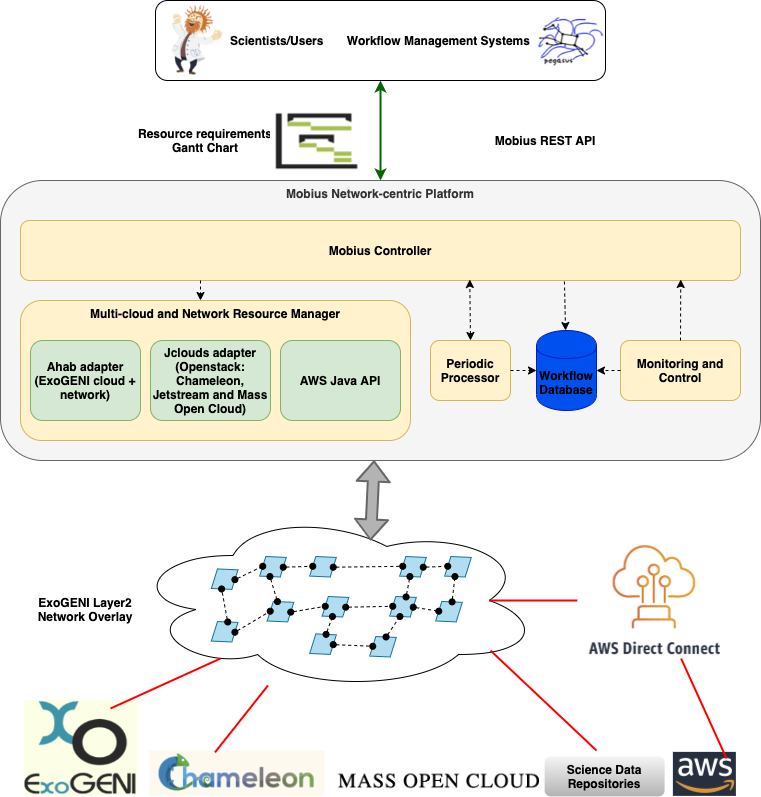
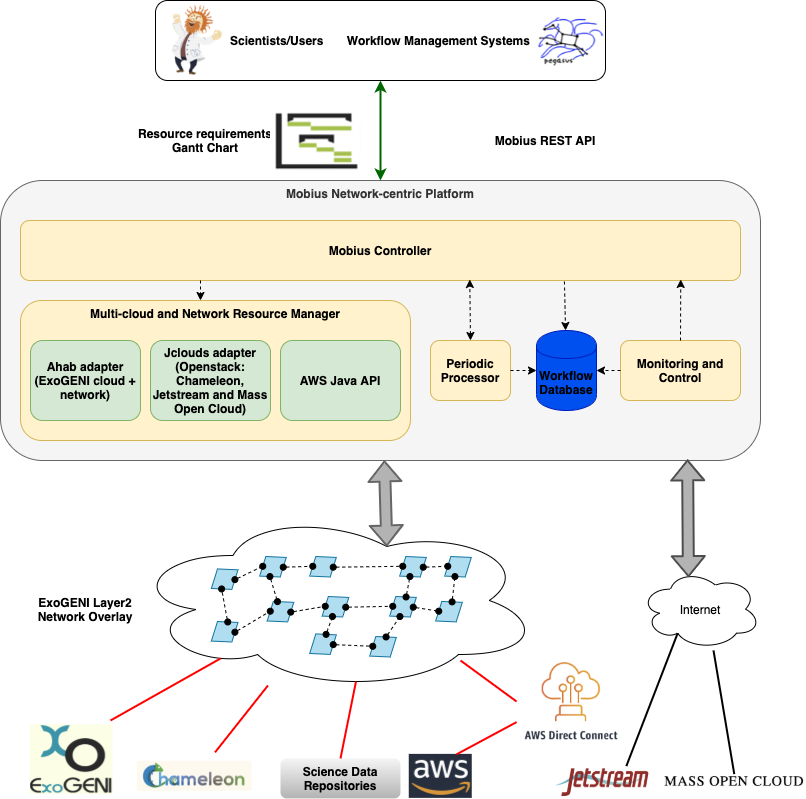
changes for network monitoring

diff --git a/python/condor_client.py b/python/condor_client.py
@@ -20,7 +20,7 @@ import json
 import argparse
 import subprocess
 import socket
-
+from ssl import create_default_context, Purpose
 
 from mobius import *
 from comet_common_iface import *
@@ -272,7 +272,7 @@ def main():
         dest='kafkahost',
         type = str,
         help='Kafka Host - monitoring server; must be specified for delete operation',
-        default='18.223.195.153:9092',
+        default='dynamo-broker1.exogeni.net:9093',
         required=False
     )
 
@@ -746,17 +746,85 @@ def cleanup_monitoring(mb, mobiushost, workflowId, kafkahost, response):
                         hostname=n["name"]
                     if n["name"] == "cmnw" :
                         continue
-                    topics.append(workflowId + hostname)
+                    topics.append("mobius-" + workflowId + "-" + hostname)
     delete_kafka_topic(topics, kafkahost)
 
 def delete_kafka_topic(topics, kafkahost):
     try:
         print ("List of topics to be deleted " + str(topics))
-        a = KafkaAdminClient(bootstrap_servers=[kafkahost])
+        context = _create_ssl_context(cafile="certs/DigiCertCA.crt", certfile="certs/inno-hn_exogeni_net.pem", keyfile="certs/inno-hn_exogeni_net.key")
+        context.check_hostname = False
+        context.verify_mode = False
+        a = KafkaAdminClient(bootstrap_servers=[kafkahost],
+                             security_protocol='SSL',
+                             ssl_context=context)
         a.delete_topics(topics, timeout_ms=30)
     except Exception as e:
-        #print("Exception occured while deleting topics e=" + str(e))
+        print("Exception occured while deleting topics e=" + str(e))
         print(" ")
+
+
+def _create_ssl_context(cafile=None, capath=None, cadata=None,
+                       certfile=None, keyfile=None, password=None,
+                       crlfile=None):
+    """
+    Simple helper, that creates an SSLContext based on params similar to
+    those in ``kafka-python``, but with some restrictions like:
+
+            * ``check_hostname`` is not optional, and will be set to True
+            * ``crlfile`` option is missing. It is fairly hard to test it.
+
+    .. _load_verify_locations: https://docs.python.org/3/library/ssl.html\
+        #ssl.SSLContext.load_verify_locations
+    .. _load_cert_chain: https://docs.python.org/3/library/ssl.html\
+        #ssl.SSLContext.load_cert_chain
+
+    Arguments:
+        cafile (str): Certificate Authority file path containing certificates
+            used to sign broker certificates. If CA not specified (by either
+            cafile, capath, cadata) default system CA will be used if found by
+            OpenSSL. For more information see `load_verify_locations`_.
+            Default: None
+        capath (str): Same as `cafile`, but points to a directory containing
+            several CA certificates. For more information see
+            `load_verify_locations`_. Default: None
+        cadata (str/bytes): Same as `cafile`, but instead contains already
+            read data in either ASCII or bytes format. Can be used to specify
+            DER-encoded certificates, rather than PEM ones. For more
+            information see `load_verify_locations`_. Default: None
+        certfile (str): optional filename of file in PEM format containing
+            the client certificate, as well as any CA certificates needed to
+            establish the certificate's authenticity. For more information see
+            `load_cert_chain`_. Default: None.
+        keyfile (str): optional filename containing the client private key.
+            For more information see `load_cert_chain`_. Default: None.
+        password (str): optional password to be used when loading the
+            certificate chain. For more information see `load_cert_chain`_.
+            Default: None.
+
+    """
+    if cafile or capath:
+        print('Loading SSL CA from %s', cafile or capath)
+    elif cadata is not None:
+        print('Loading SSL CA from data provided in `cadata`')
+        print('`cadata`: %r', cadata)
+    # Creating context with default params for client sockets.
+    context = create_default_context(
+        Purpose.SERVER_AUTH, cafile=cafile, capath=capath, cadata=cadata)
+    # Load certificate if one is specified.
+    if certfile is not None:
+        print('Loading SSL Cert from %s', certfile)
+        if keyfile:
+            if password is not None:
+                print('Loading SSL Key from %s with password', keyfile)
+            else:  # pragma: no cover
+                print('Loading SSL Key from %s without password', keyfile)
+        # NOTE: From docs:
+        # If the password argument is not specified and a password is required,
+        # OpenSSLs built-in password prompting mechanism will be used to
+        # interactively prompt the user for a password.
+        context.load_cert_chain(certfile, keyfile, password)
+    return context
 
 if __name__ == '__main__':
     main()
